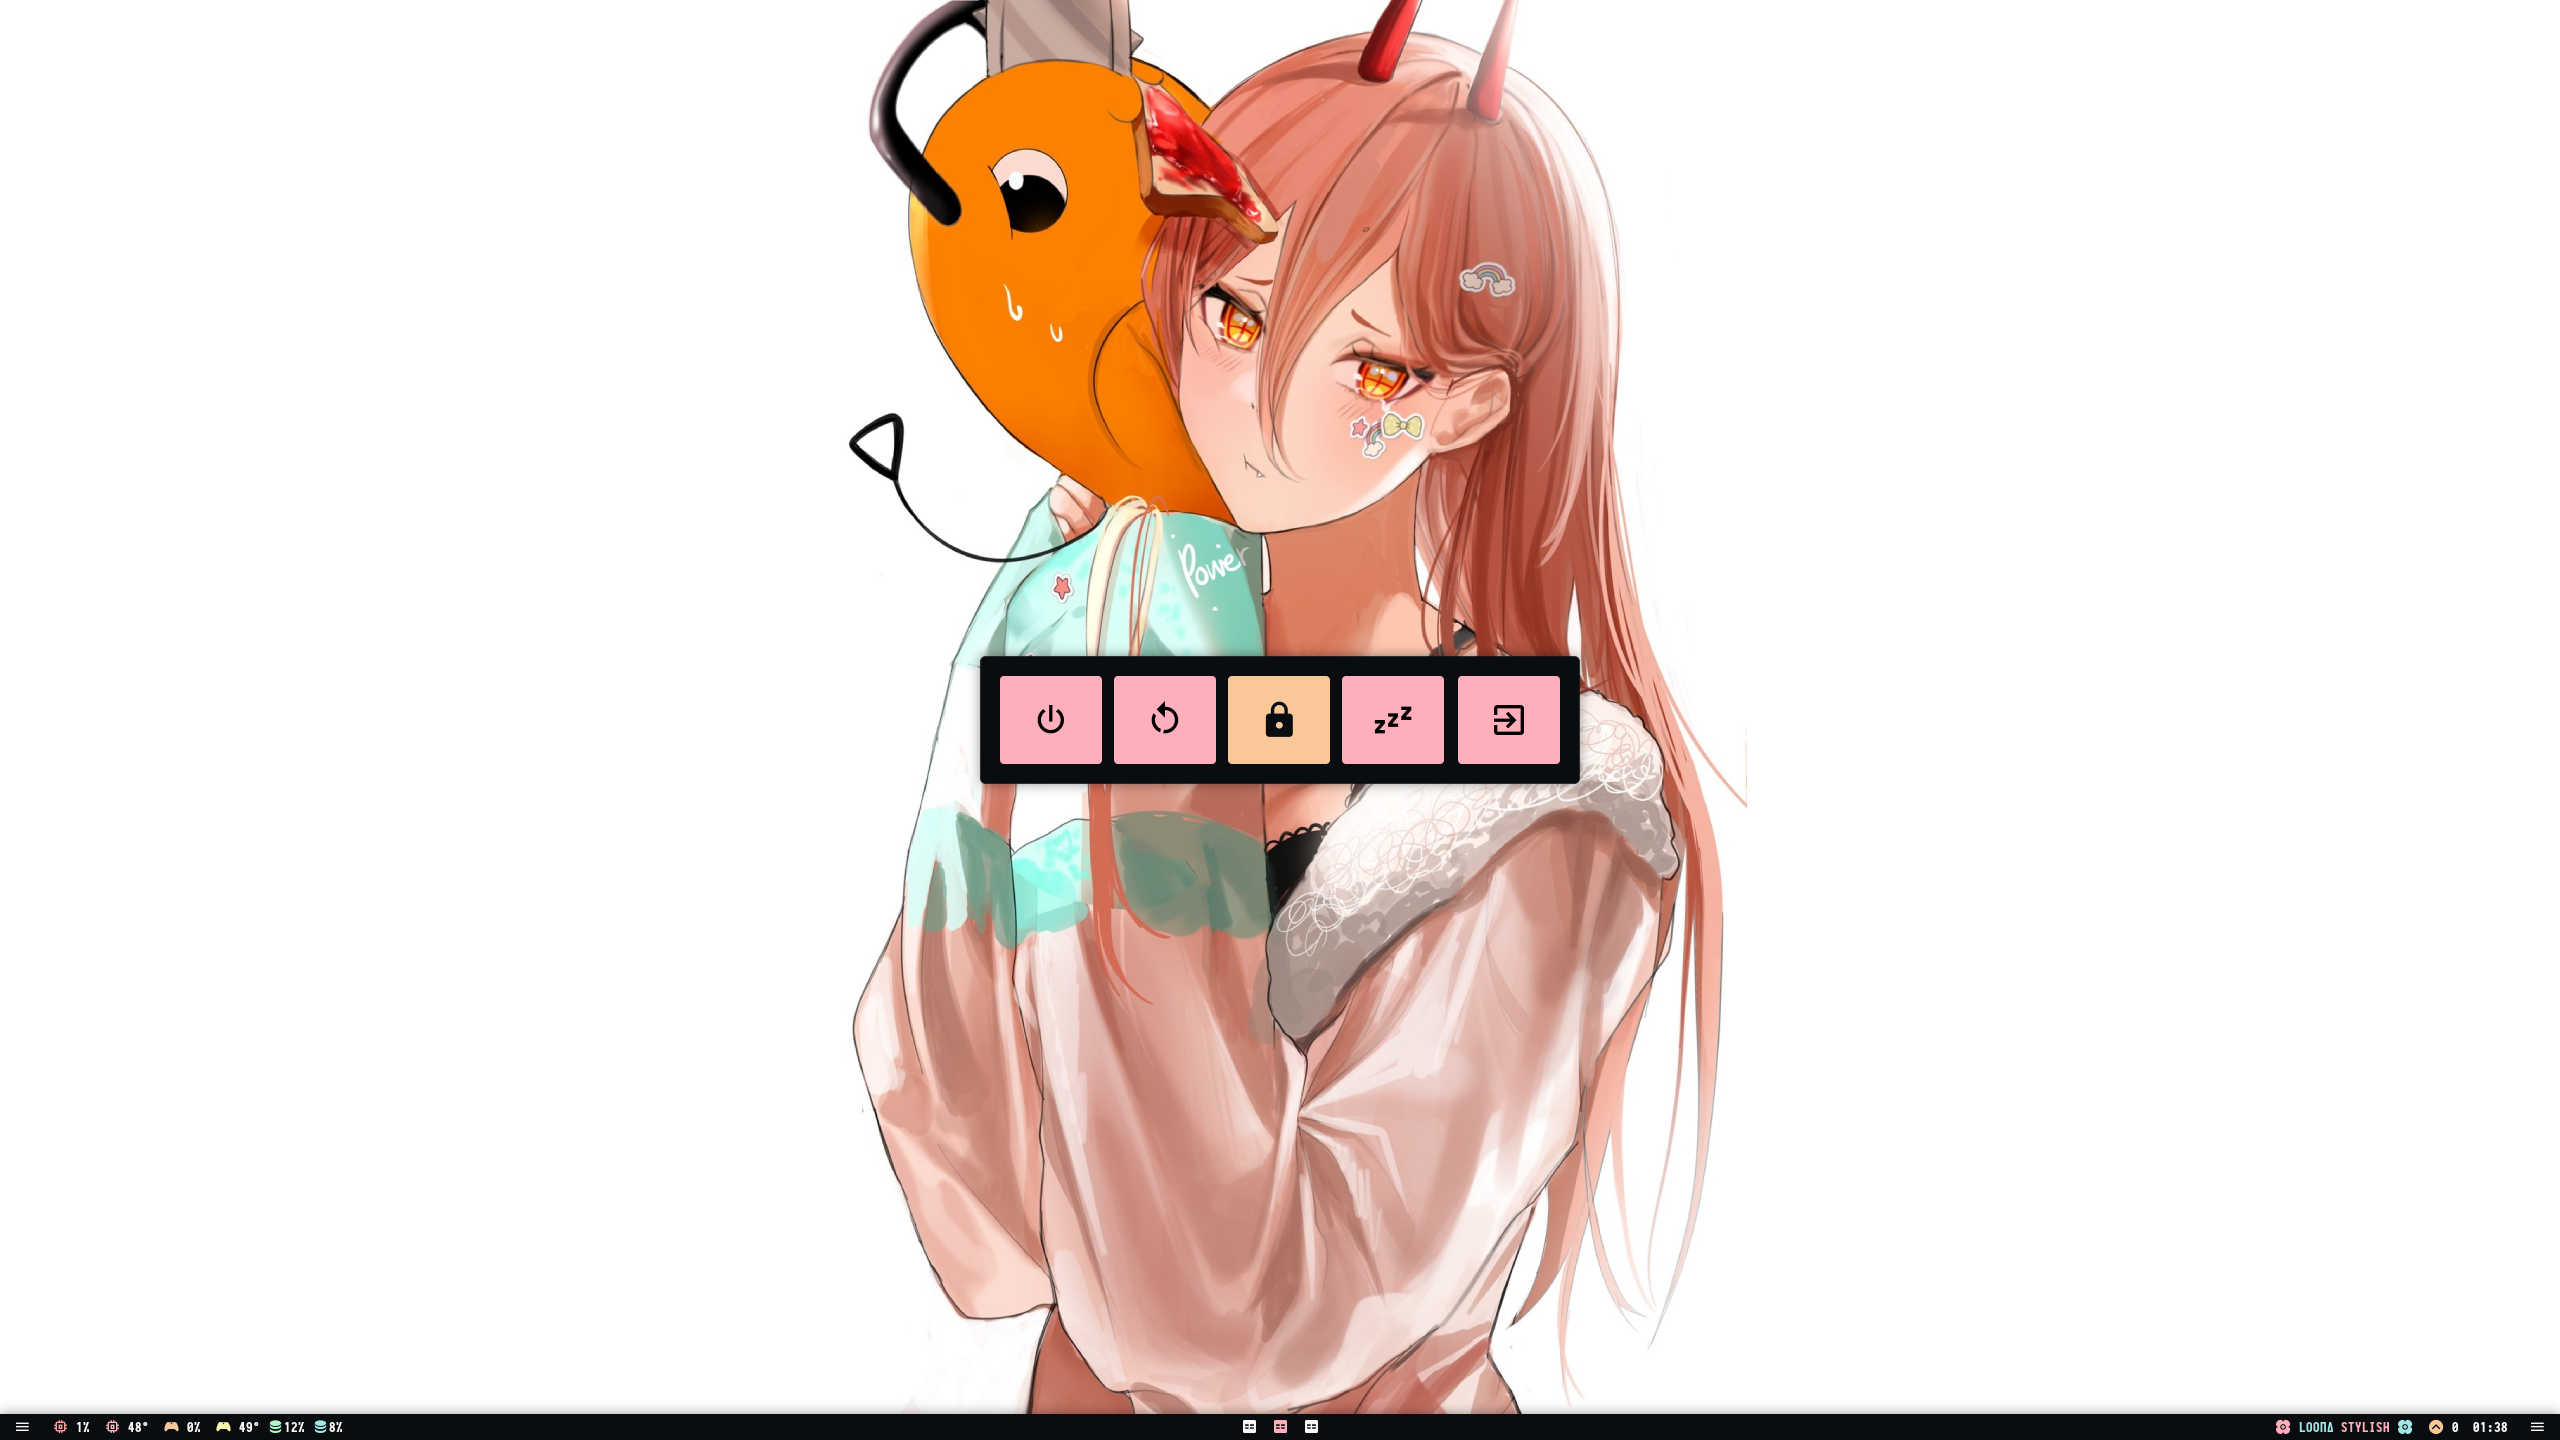
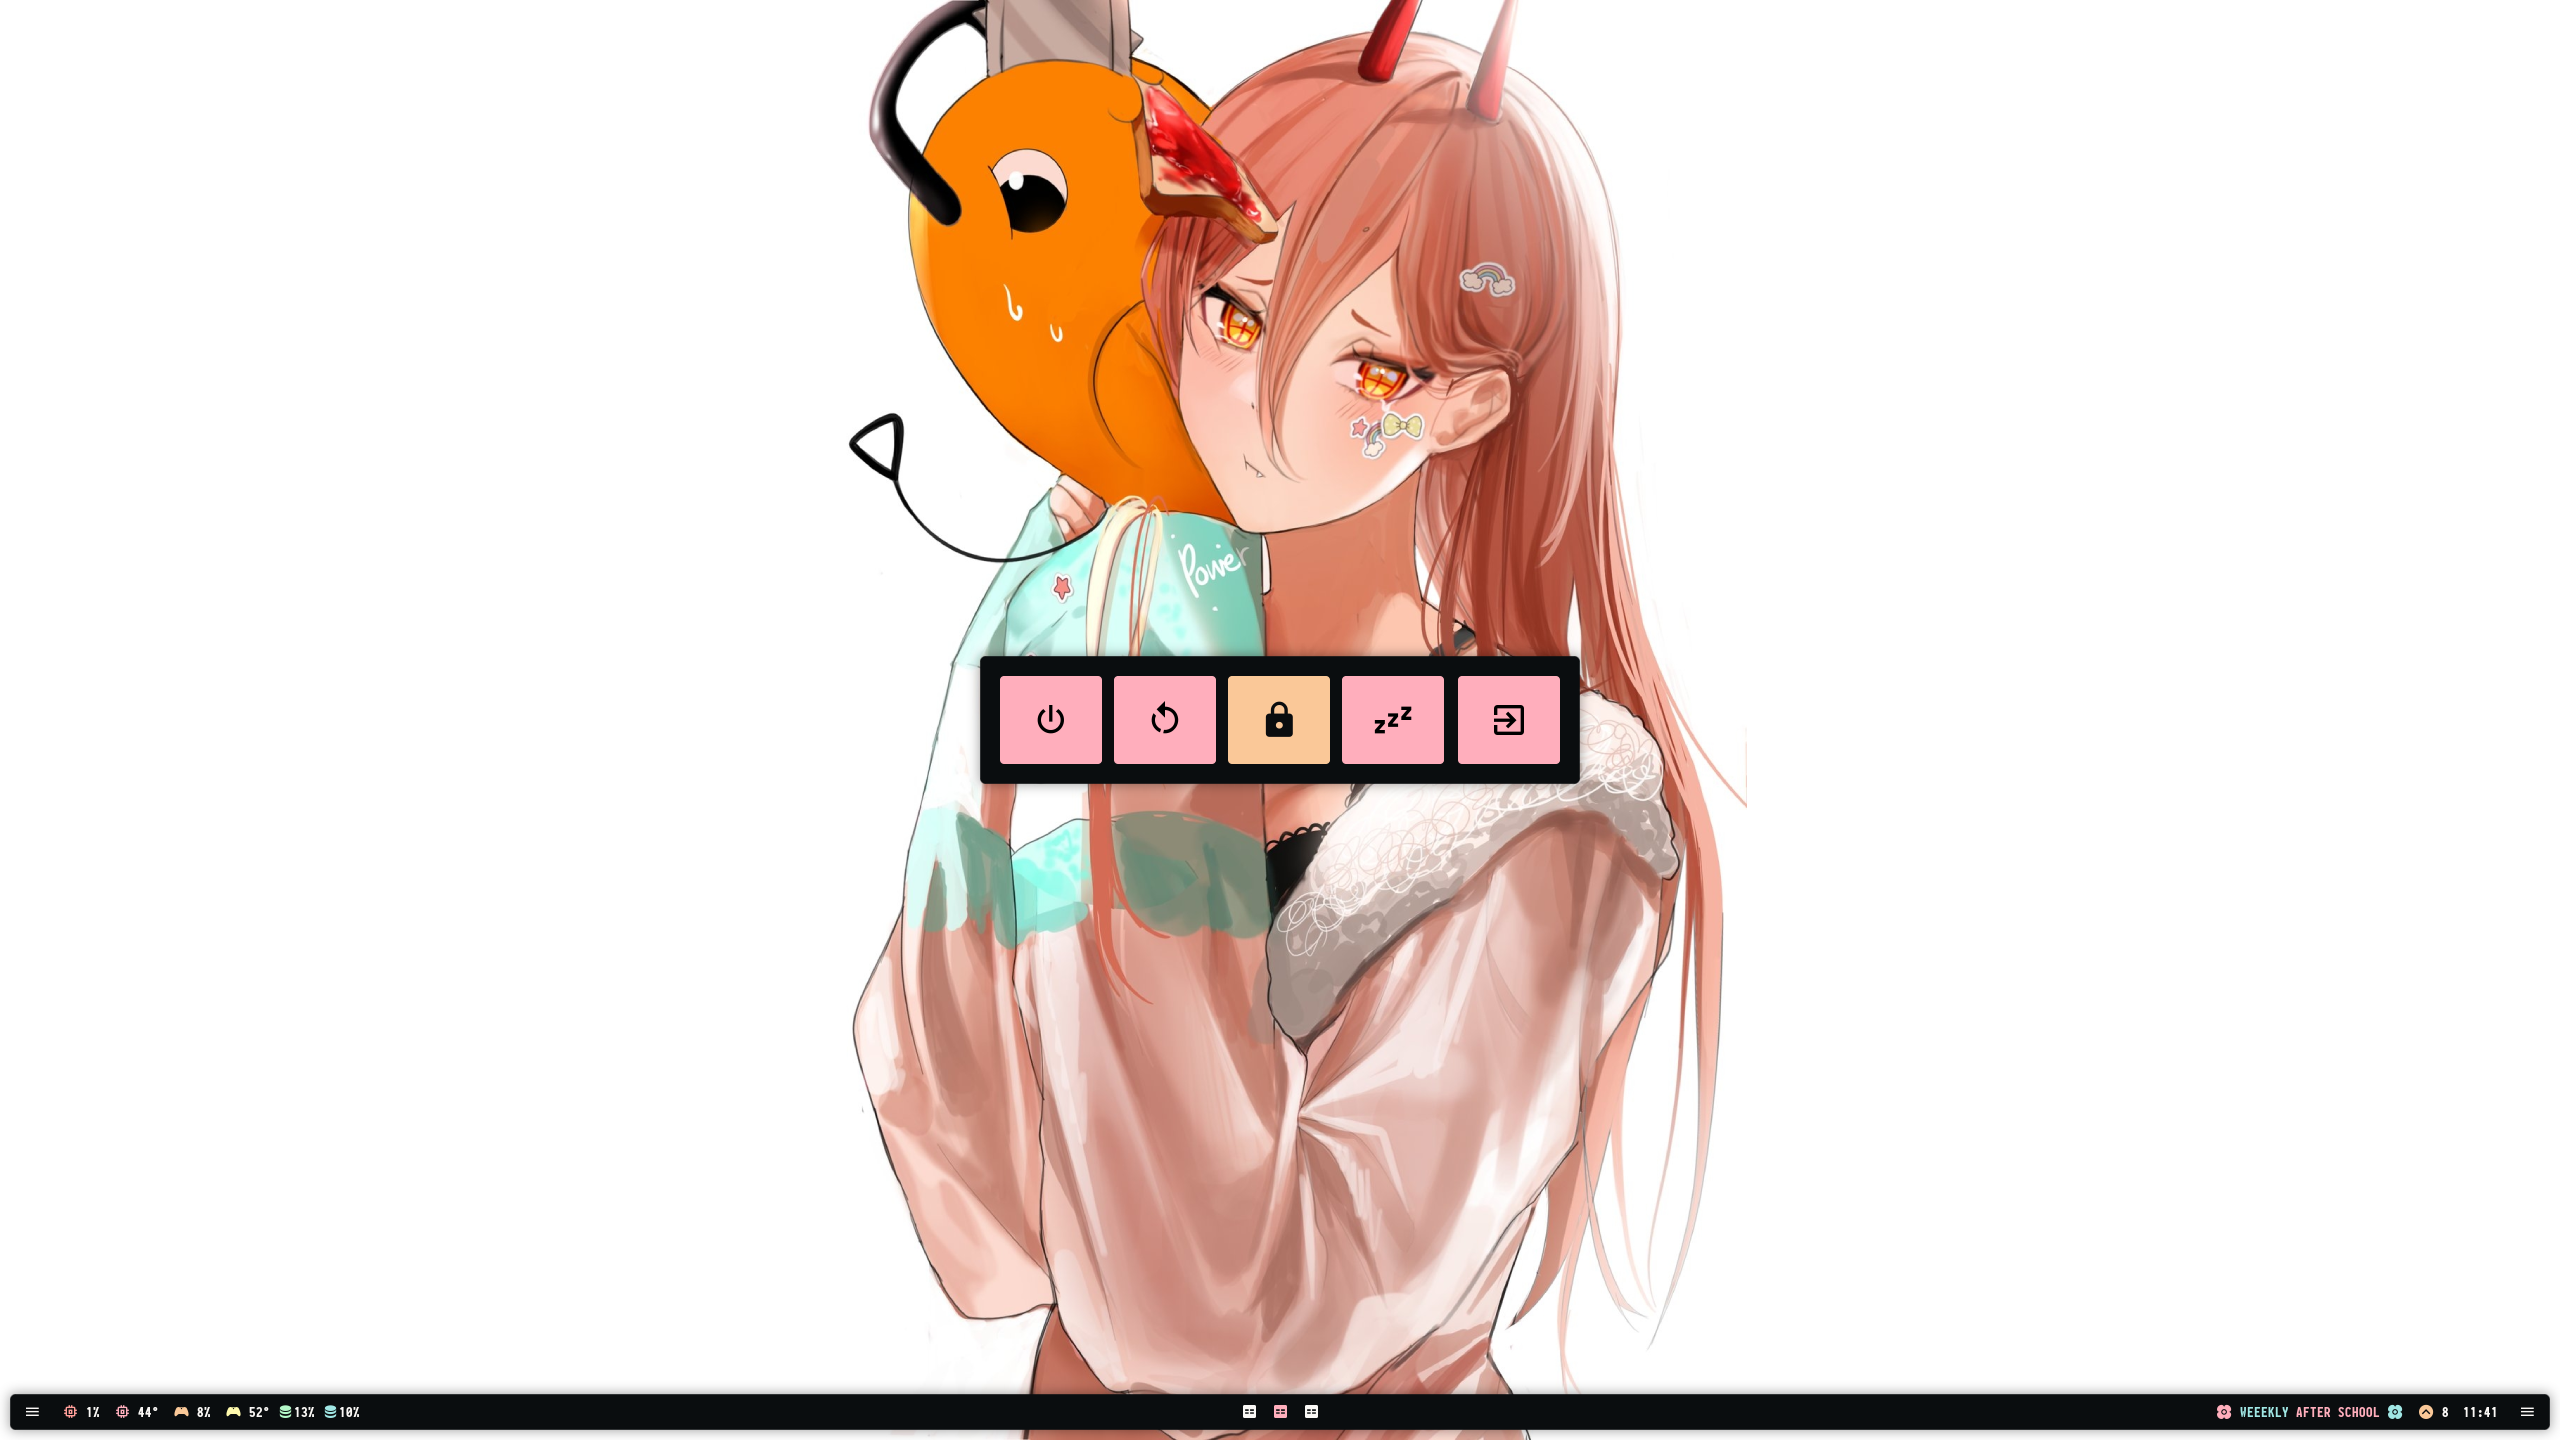
new bar config + screens

Changed region(s): [[0.0, 0.9375, 1.0, 1.0]]

diff --git a/README.md b/README.md
@@ -1,6 +1,6 @@
 <h2 align="center">:white_flower: :cherry_blossom: :white_flower: :cherry_blossom: :white_flower: :cherry_blossom: :white_flower: :cherry_blossom: :white_flower: Welcome! :white_flower: :cherry_blossom: :white_flower: :cherry_blossom: :white_flower: :cherry_blossom: :white_flower: :cherry_blossom: :white_flower: </h2></br>
 
-![](assets/sample_colours.gif) </br>
+![](assets/COLOUR_SAMPLES.gif) </br>
 
 <h3 align="center"> :white_flower: :cherry_blossom: :white_flower: Scroll down for screenshots :white_flower: :cherry_blossom: :white_flower: </h3> </br> </br>
 
@@ -68,43 +68,33 @@ Look in sxhkdrc for the rest. The above should allow you to adjust the setup to 
   <summary>Click to expand.</summary>
   
  #### SAGA
- <img src="assets/SAGA.png"></br> 
-  
- <img src="assets/WALL.png"></br>
- 
- <img src="assets/ROFI.png"></br>
- 
- <img src="assets/POWERMENU.png"></br>
- 
- <img src="assets/TILED.png"></br>
- 
- #### ROSÉPINE
- <img src="assets/ROSÉPINE.png"></br>
-
- #### NORD DARK
- <img src="assets/NORD_DARK.png"></br>
- 
- #### ELLY
- <img src="assets/ELLY.png"></br>
- 
- #### GRUVBOX
- <img src="assets/GRUVBOX.png"></br>
- 
- #### DRACULA
- <img src="assets/DRACULA.png"></br>
- 
- #### UNIKITTY LIGHT
- <img src="assets/UNIKITTY_LIGHT.png"></br>
+ ##### WALL
+ <img src="assets/WALL.png"></br> 
+ ##### ROFI
+ <img src="assets/ROFI.png"></br> 
+ <img src="assets/POWERMENU.png"></br> 
+ ##### GEDIT
+ <img src="assets/GEDIT.png"></br> 
+ ##### FIREFOX
+ <img src="assets/FOX.png"></br> 
+ ##### GTK
+ <img src="assets/GTK.png"></br> 
+ ##### LOGSEQ
+ <img src="assets/LOGSEQ.png"></br> 
+ ##### HELIX
+ <img src="assets/HELIX.png"></br> 
+ ##### NCMPCPP
+![](assets/COLOUR_SAMPLES.gif) </br>
 </details>
 
 ## TODO
 
 ## ACKNOWLEDGEMENTS
-- [Kiddae](https://github.com/kiddae) for the lovely tool that is colorer.
-- [Siduck](https://github.com/siduck) for his amazing dotfiles which I used for inspiration (and at some point served as templates for mine). 
-- [adi1090x](https://github.com/adi1090x) for the beautiful ncmpcpp config.
-- [Manas140](https://github.com/Manas140) for a few scripts.
-- [/r/unixporn](https://teddit.net/r/unixporn) for inspiration over the years.
+- [Kiddae](https://github.com/kiddae) for developing colorer :heart:
+- [Siduck](https://github.com/siduck) whose dotfiles I've used for inspiration on several occasions :white_flower:
+- [adi1090x](https://github.com/adi1090x) for the beautiful ncmpcpp config :heart:
+- [Manas140](https://github.com/Manas140) for a few scripts. :white_flower:
+- And last but not least a thanks to all the wonderful people on [/r/unixporn](https://teddit.net/r/unixporn) who make dotfiles a lot more fun and provide an endless source of inspiration :heart:
 
 
 ## MISCELLANEOUS
